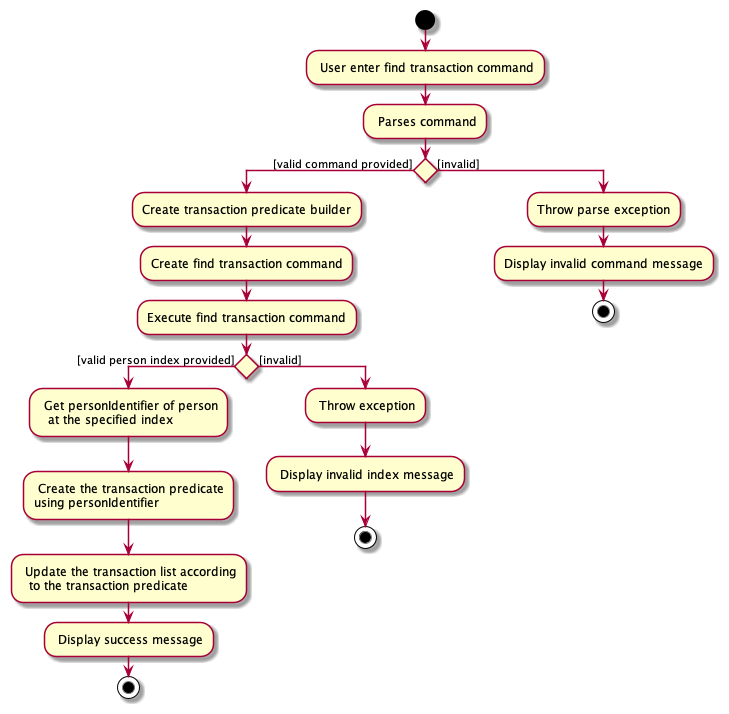
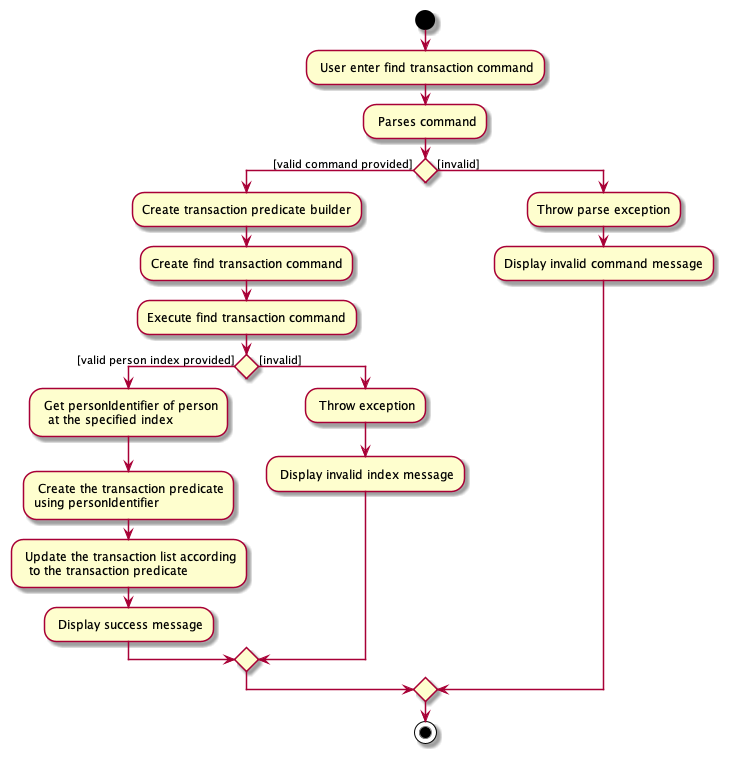
update developer guide

Changed region(s): [[0.0, 0.0308, 0.9959, 0.986]]

diff --git a/docs/DeveloperGuide.md b/docs/DeveloperGuide.md
@@ -215,7 +215,7 @@ The lifeline for `AppendCommandParser` and `AppendCommand` should end at their d
 ### Transaction 
 
 The `Transaction` class is used to represent a client's transaction. The abstract `TransactionField` class represents the transaction data.
-`Transaction` contains an immutable `HashMap<Prefix, TransactionField>` of transactionFields as well as a reference to the `Person`
+`Transaction` contains an immutable `HashMap<Prefix, TransactionField>` of transactionFields as well as identifier of the `Person`
 who owns the `Transaction`. This person identifier will be stored as a `long` inside the `Transaction` class. 
 
 ![Transaction Class Diagram](images/TransactionClassDiagram.png)
@@ -246,7 +246,7 @@ Transaction class consists of fields `Amount`, `TransactionDate`, `DueDate`, `No
 
 * **Alternative 1 (current implementation):** Create a list (`FilteredList`) of Transactions, controlled by `ModelManager`.
   Everytime a user create a transaction, a new instance of transaction will be added to the list and a client
-  specified by its unique identifier (`Email`) will be referenced by this transaction. To list all the transactions
+  specified by its unique identifier (`personId`) will be referenced by this transaction. To list all the transactions
   of a particular client, the `FilteredList` should be updated to only contain `Transaction`
   with a reference to the client's id.
     * Pros: Consistent design with the `Person` class.
@@ -323,7 +323,7 @@ List`.
 This issue is addressed by using the class `TransactionPredicateBuilder` that takes a `personIdentifier`
 and returns the desired `TransactionPredicate`.
 
-![Add Transaction activity diagram](images/FindTransactionActivityDiagram.png)
+![Find Transaction activity diagram](images/FindTransactionActivityDiagram.png)
 
 *Figure: Simplified activity diagram showing the sequence of action of Find Transaction command.*
 
@@ -338,7 +338,7 @@ Given below is an example usage scenario and how `Find Transaction` behaves at e
    using `TransactionPredicate`.
 5. `CommandResult` will be returned back to the `LogicManager` if there is no failure in execution.
 
-![Add Transaction sequence diagram](images/FindTransactionSequenceDiagram.png)
+![Find Transaction sequence diagram](images/FindTransactionSequenceDiagram.png)
 *Figure: Simplified sequence diagram showing the sequence of action of Find Transaction command.*
 
 #### Design considerations
@@ -748,6 +748,7 @@ Priorities: High (must have), Medium (nice to have), Low (unlikely to have)
 | `LOW`    | user    | store my client's birthday                                 | give them discounts on their birthday.                                  |
 | `LOW`    | user    | store my client's age                                      | know if I can sell them age restricted items.                           |
 | `HIGH`   | user    | add client transaction                                     | store the transaction history of my clients.                            |
+| `HIGH`   | user    | delete a transaction                                       | delete the transaction from the transaction list                        |
 | `MEDIUM` | user    | chain multiple commands                                    | execute multiple commands at once.                                      |
 | `LOW`    | user    | list all clients who are members.                          |                                                                         |
 | `LOW`    | user    | assign different tiers of memberships to my clients.       |                                                                         |
@@ -757,7 +758,10 @@ Priorities: High (must have), Medium (nice to have), Low (unlikely to have)
 | `MEDIUM` | user    | remove data fields and tags from clients                   | remove fields and tags from a client without editing the entire client. |
 | `HIGH`   | user    | be able to re-input my previous commands                   | execute similar commands without having to retype the whole command.    |
 | `HIGH`   | user    | switch between light and dark themes.                      |                                                                         |
-| `HIGH`   | user    | list a client's transactions                               | see all the transactions associated with a particular client.           |
+| `HIGH`   | user    | list all transactions                                      |                                                                         |
+| `HIGH`   | user    | find a client's transactions                               | see all the transactions associated with a particular client.           |
+| `MEDIUM` | user    | pay a transaction                                          | change the status of the transaction to be paid                         |
+| `MEDIUM` | user    | pay a transaction                                          | change the status of the transaction to be unpaid                       |
 | `MEDIUM` | user    | flag a transaction as paid or unpaid                       | know if a transaction has been paid.                                    |
 | `LOW`    | user    | click on a client to see the list of their transactions    | see a client's transactions without typing.                             |
 | `HIGH`   | user    | remove memberships from clients                            | remove a client from my rewards program.                                |
